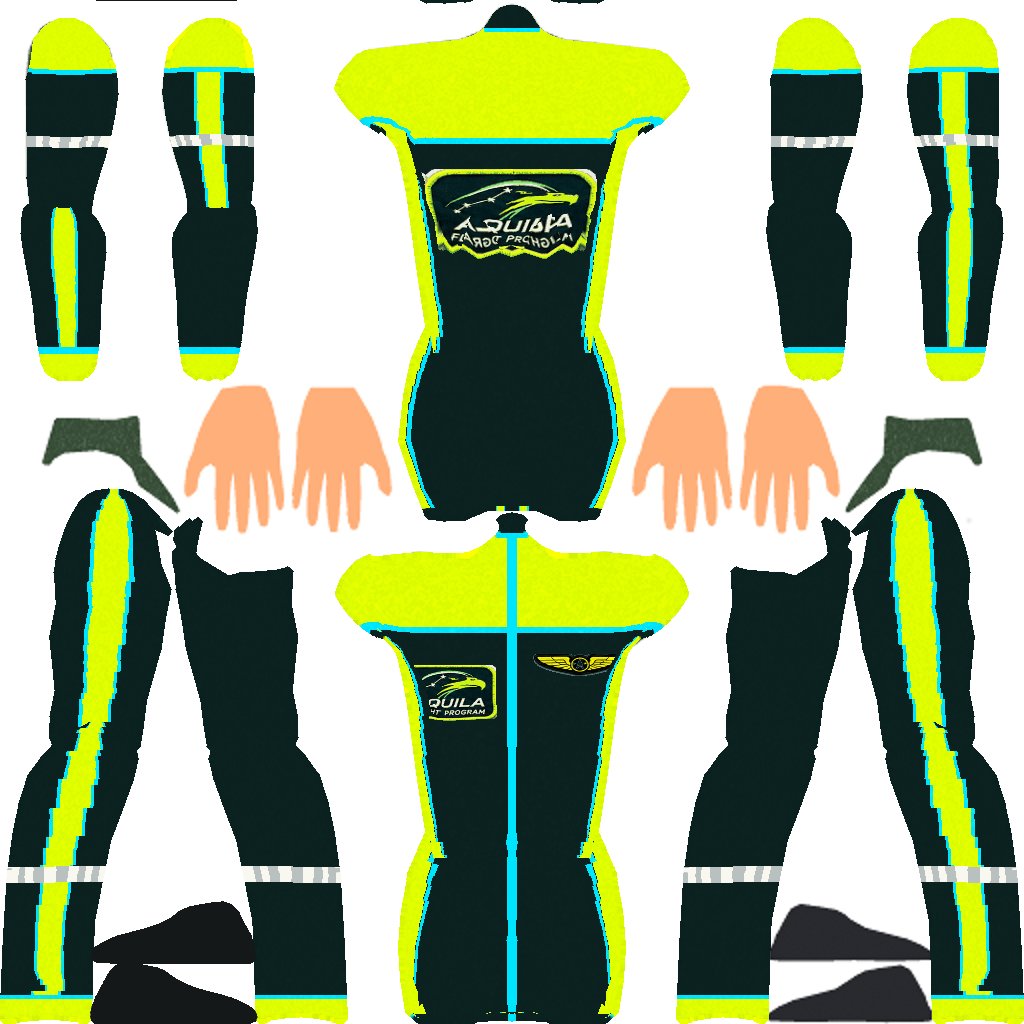
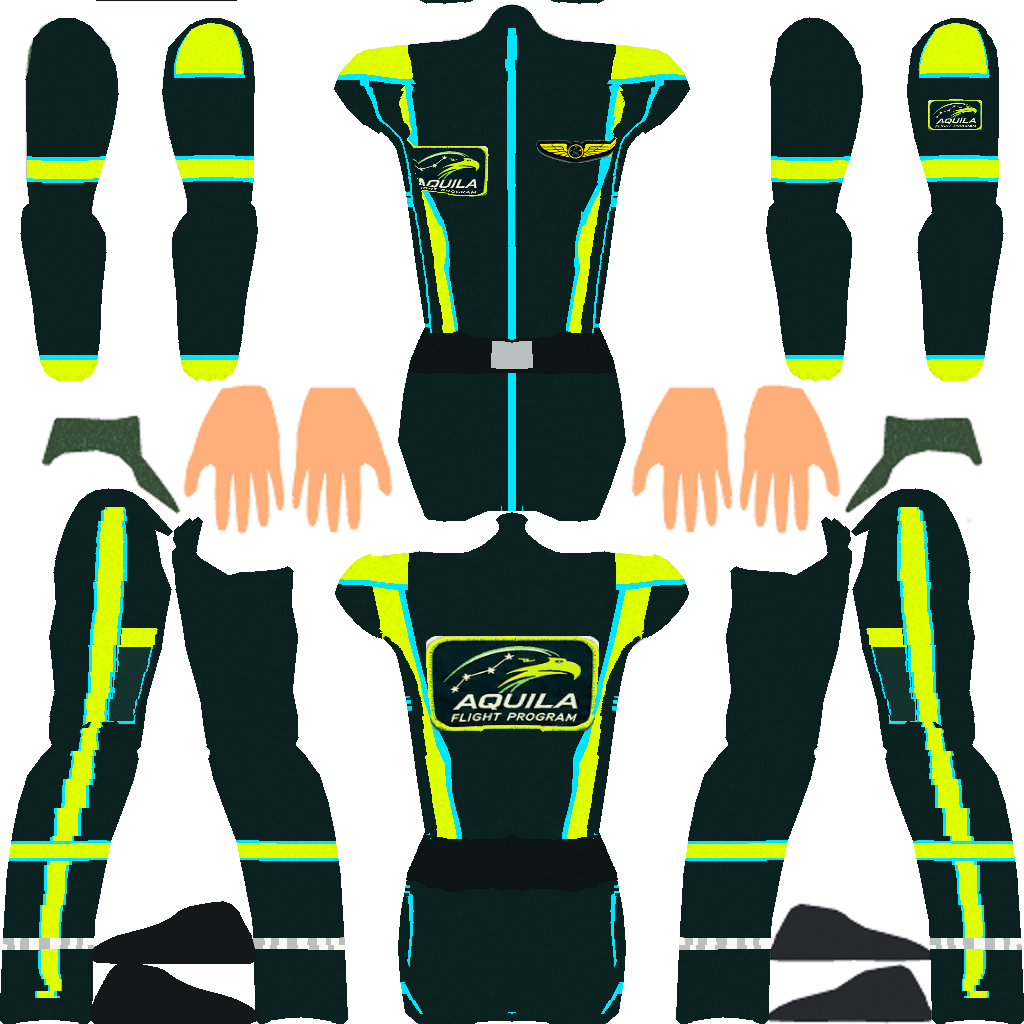
aquila-walker: suit design v2, closer to the Aquila boards
Front and back were reversed in v1: the walker faces -x, so the chest
patches and zip had ended up on his back. v2 fixes that and redraws the
suit after the uniform boards: lime shoulder caps and chest swooshes with
cyan piping, cyan front zip, belt with buckle, thigh cargo pockets, knee
bands, reflective boot band, arm caps, armbands and cuffs, Aquila patch on
his right chest, wings on his left, small patch on the left arm, large
patch on the back. Tested on the 182S: outfit 5 loads, he stands at the
exit, 10 fps.

README now says Walk View is first person, so he only shows in Walker
Orbit View.

diff --git a/aircraft/aquila-walker/src/bake.py b/aircraft/aquila-walker/src/bake.py
@@ -22,6 +22,8 @@ CYAN = np.array([0x00, 0xE5, 0xFF], float)   # electric cyan piping
 IVORY = np.array([0xF8, 0xF8, 0xF0], float)  # reflective ivory
 SILVER = np.array([0xB8, 0xC0, 0xC0], float)
 BOOT = np.array([0x14, 0x18, 0x18], float)
+BELT = np.array([0x0D, 0x15, 0x15], float)
+POCKET = np.array([0x14, 0x33, 0x2F], float)
 
 HANDS = ("victory", "handedge", "hand.", "grip", "thumbsup", "fist", "point")
 
@@ -97,6 +99,15 @@ def angle_about(P, frame):
     return d, cen[k]
 
 
+def seg_dist(u, v, a, b):
+    """Distance from points (u, v) to segment a-b, and which side of it (negative = toward u=0)."""
+    a = np.array(a, float); b = np.array(b, float)
+    d = b - a; L2 = d @ d
+    t = np.clip(((u - a[0]) * d[0] + (v - a[1]) * d[1]) / L2, 0, 1)
+    pu = a[0] + t * d[0]; pv = a[1] + t * d[1]
+    return np.hypot(u - pu, v - pv), u - pu
+
+
 def project(img, P_u, P_v, u0, v0, w, h):
     """Sample RGBA image where (P_u, P_v) fall in the box centred (u0, v0) of size w x h.
     u grows to the image's right, v grows upward."""
@@ -161,26 +172,34 @@ def main():
             continue
         if kd == "torso":
             d, c = angle_about(P, frames["torso"])
-            th = np.degrees(np.arctan2(d[:, 1], d[:, 0]))      # 0 front (+x), +90 at +y
-            ath = np.abs(th); z = P[:, 2]; y = P[:, 1]
-            yoke = z > 0.445
-            col[yoke] = LIME
-            col[(z > 0.437) & (z <= 0.445)] = CYAN
-            col[z > 0.578] = BASE                               # collar
-            col[(z > 0.572) & (z <= 0.578)] = CYAN
-            side = (ath > 72) & (ath < 108) & (z < 0.437) & (z > -0.06)
-            col[side] = LIME
-            pip = ((np.abs(ath - 68) < 3) | (np.abs(ath - 112) < 3)) & (z < 0.437) & (z > -0.06)
-            col[pip] = CYAN
-            zip_ = (np.abs(y - c[:, 1]) < 0.0055) & (ath < 60) & (z < 0.572) & (z > -0.07)
+            # the walker faces -x (eyes at -x, hair at +x): 0 deg = front, +90 = his right (+y), 180 = back
+            th = np.degrees(np.arctan2(d[:, 1], -d[:, 0]))
+            ath = np.abs(th); z = P[:, 2]; y = P[:, 1]; ay = np.abs(y - c[:, 1])
+            front = ath < 75; back = ath > 105
+            # chest and back swooshes: shoulder down and in to the belt, cyan piping on the inner edge
+            dist, side = seg_dist(ay, z, (0.140, 0.500), (0.085, 0.17))
+            sw = ((ath < 65) | (ath > 115)) & (z > 0.165)
+            col[sw & (dist < 0.014)] = LIME
+            col[sw & (dist >= 0.014) & (dist < 0.021) & (side < 0)] = CYAN
+            # shoulder caps (epaulettes) and the shoulder seam
+            cap = (ay > 0.115) & (z > 0.505) & (z < 0.575)
+            col[cap] = LIME
+            col[(ay > 0.115) & (z > 0.497) & (z <= 0.505)] = CYAN
+            # side piping from hip to armpit
+            col[(np.abs(ath - 90) < 2.5) & (z > -0.06) & (z < 0.497)] = CYAN
+            # belt with buckle
+            belt = (z >= 0.115) & (z <= 0.165)
+            col[belt] = BELT
+            buckle = belt & (ath < 30) & (ay < 0.026) & (z > 0.121) & (z < 0.159)
+            col[buckle] = SILVER
+            # full-length front zip
+            zip_ = (ath < 50) & (ay < 0.005) & (z > -0.07) & (z < 0.578) & ~belt
             col[zip_] = CYAN
-            fab = ~zip_
-            front = ath < 55
-            back = ath > 125
-            layers = [  # (image, mask, u coordinate, centre u, centre z, width, height)
-                (logo, front, P[:, 1], -0.074, 0.352, 0.112, 0.078),
-                (wings, front, P[:, 1], 0.074, 0.392, 0.104, 0.032),
-                (logo, back, -P[:, 1], 0.0, 0.335, 0.20, 0.14),
+            fab = ~zip_ & ~buckle
+            layers = [  # (image, mask, u (image right), centre u, centre z, width, height)
+                (logo, ath < 55, -y, -0.078, 0.400, 0.100, 0.070),    # Aquila patch, his right chest
+                (wings, ath < 55, -y, 0.078, 0.428, 0.095, 0.029),    # pilot wings, his left chest
+                (logo, ath > 125, y, 0.0, 0.365, 0.190, 0.133),       # large patch across the back
             ]
             for img, msk, u, u0, z0, w, h in layers:
                 s = project(img, u, z, u0, z0, w, h)
@@ -189,33 +208,45 @@ def main():
                 fab &= a[:, 0] < 0.5
         elif kd == "leg":
             d, c = angle_about(P, frames[p["name"]])
-            th = np.degrees(np.arctan2(d[:, 1], d[:, 0]))
+            th = np.degrees(np.arctan2(d[:, 1], -d[:, 0]))       # 0 front, +90 toward +y
             outward = 90.0 if p["verts"][:, 1].mean() > 0 else -90.0
             dev = np.abs((th - outward + 180) % 360 - 180)
             z = P[:, 2]
-            col[dev < 20] = LIME
-            col[(dev >= 20) & (dev < 25)] = CYAN
-            band = (z < -0.600) & (z > -0.628)
+            run = (z > -0.83) & (z < 0.06)
+            col[run & (dev < 14)] = LIME
+            col[run & (dev >= 14) & (dev < 18)] = CYAN
+            # cargo pocket on the outer front of the thigh, lime flap
+            pc = outward * 0.5
+            pdev = np.abs((th - pc + 180) % 360 - 180)
+            pk = (pdev < 26) & (z > -0.345) & (z < -0.165)
+            col[pk] = POCKET
+            col[pk & ((pdev > 23.5) | (z < -0.338))] = CYAN
+            col[pk & (z > -0.200)] = LIME
+            # lime band below the knee, segmented reflective band above the boot
+            col[(z > -0.585) & (z < -0.560)] = LIME
+            col[((z > -0.590) & (z <= -0.585)) | ((z >= -0.560) & (z < -0.555))] = CYAN
+            band = (z < -0.725) & (z > -0.745)
             seg = (np.floor((th + 180) / 18).astype(int) % 2) == 0
             col[band & seg] = IVORY; col[band & ~seg] = SILVER
-            col[z < -0.832] = LIME
-            col[(z >= -0.832) & (z < -0.825)] = CYAN
             fab = ~band
-        else:  # arm, axis along y; angle in the x-z plane, 0 front, +90 top
+        else:  # arm, axis along y; angle in the x-z plane: 0 front (-x), +90 top (outer side when hanging)
             d, c = angle_about(P, frames[p["name"]])
-            th = np.degrees(np.arctan2(d[:, 1], d[:, 0]))
+            th = np.degrees(np.arctan2(d[:, 1], -d[:, 0]))
             dev = np.abs((th - 90 + 180) % 360 - 180)
             ay = np.abs(P[:, 1])
-            col[dev < 18] = LIME
-            col[(dev >= 18) & (dev < 23)] = CYAN
-            col[ay < 0.19] = LIME
-            col[(ay >= 0.19) & (ay < 0.198)] = CYAN
-            band = (ay > 0.300) & (ay < 0.318)
-            seg = (np.floor((th + 180) / 18).astype(int) % 2) == 0
-            col[band & seg] = IVORY; col[band & ~seg] = SILVER
-            col[ay > 0.655] = LIME
-            col[(ay > 0.645) & (ay <= 0.655)] = CYAN
-            fab = ~band
+            col[(ay < 0.200) & (dev < 60)] = LIME
+            col[(ay < 0.200) & (dev >= 60) & (dev < 64)] = CYAN
+            col[(ay >= 0.200) & (ay < 0.207) & (dev < 64)] = CYAN
+            col[(ay > 0.340) & (ay < 0.370)] = LIME
+            col[((ay > 0.334) & (ay <= 0.340)) | ((ay >= 0.370) & (ay < 0.376))] = CYAN
+            col[ay > 0.665] = LIME
+            col[(ay > 0.658) & (ay <= 0.665)] = CYAN
+            fab = np.ones(len(P), bool)
+            if P[:, 1].mean() < 0:   # small Aquila patch on the outside of his left upper arm
+                s = project(logo, P[:, 0], -ay, float(c[:, 0].mean()), -0.268, 0.072, 0.050)
+                a = (s[:, 3:4] / 255.0) * (dev < 55)[:, None]
+                col = col * (1 - a) + s[:, :3] * a
+                fab &= a[:, 0] < 0.5
         keep = skin[m]
         col = np.where(keep[:, None], orig[m, :3], col)
         out[m, :3] = col

diff --git a/aircraft/aquila-walker/src/render.py b/aircraft/aquila-walker/src/render.py
@@ -12,11 +12,11 @@ SKIP = ("victory", "handedge", "grip", "thumbsup", "fist", "point")
 
 def render(parts, tex, view, ppm=260):
     # screen: (sx right, sy up, depth toward viewer)
-    if view == "front":    # viewer at +x looking -x, right = +y
-        M = np.array([[0, 1, 0], [0, 0, 1], [1, 0, 0]], float)
-    elif view == "back":   # viewer at -x, right = -y
+    if view == "front":    # the walker faces -x: viewer at -x, screen right = his left (-y)
         M = np.array([[0, -1, 0], [0, 0, 1], [-1, 0, 0]], float)
-    else:                  # viewer at -y (wearer's right side), right = +x
+    elif view == "back":   # viewer at +x, screen right = +y
+        M = np.array([[0, 1, 0], [0, 0, 1], [1, 0, 0]], float)
+    else:                  # viewer at -y (his left side), screen right = +x (his back)
         M = np.array([[1, 0, 0], [0, 0, 1], [0, -1, 0]], float)
     W, H = int(1.8 * ppm), int(2.0 * ppm)
     img = np.full((H, W, 3), 235.0)

diff --git a/aircraft/aquila-walker/README.md b/aircraft/aquila-walker/README.md
@@ -7,7 +7,8 @@ Aquila Flight Program flight suit, on every plane in the fgfs-mga fleet.
     bash install.sh --dry-run  # what each plane would get
     bash install.sh --undo     # put everything back
 
-In the sim: **Walker > Toggle Walker out/in**, then **View > Walker Orbit View** or **Walk View**.
+In the sim: **Walker > Toggle Walker out/in**, then **View > Walker Orbit View** to see him
+(or press `V` until it comes up). **Walk View** looks through his eyes, so he isn't visible there.
 `w` walks, `W` runs, `s`/`S` back, `a`/`d` step sideways (in the walk views only).
 **Walker > Select Theme > Waldo Aquila Flight Suit** brings the suit back if you pick another theme.
 
@@ -16,9 +17,15 @@ In the sim: **Walker > Toggle Walker out/in**, then **View > Walker Orbit View**
 ## The suit
 
 One-piece suit from the Aquila Uniform Systems boards (v1.2 / v1.3): black-seafoam #0B2220 base,
-acid-lime #DFFF00 yoke, torso side panels, outer leg and top-of-arm stripes and cuffs, electric-cyan
-#00E5FF piping and front zip, segmented reflective ivory/silver bands on the calves and upper arms,
-the Aquila patch on the right chest and the pilot wings on the left, a large Aquila patch on the back.
+acid-lime #DFFF00 shoulder caps and chest swooshes running from the shoulders in to the belt (front
+and back), electric-cyan #00E5FF piping on the swooshes, shoulder seams and sides, a cyan front zip,
+a dark belt with a silver buckle, lime outer-leg stripes, thigh cargo pockets with lime flaps, lime
+bands below the knees, a segmented reflective ivory/silver band above the boots, lime arm caps,
+armbands and cuffs, the Aquila patch on his right chest, pilot wings on his left chest, a small patch
+on the left upper arm and a large Aquila patch on the back.
+
+The walker model faces -x (FlightGear's forward), so "his right" is +y; v1 of the bake had the chest
+patches and zip on the back by mistake.
 
 It is a new texture on FlightGear's own flight-suit mesh (outfit 5, beside the stock outfits 0-4),
 so it costs one 1024x1024 texture per gender and no extra geometry while the walker is hidden.
